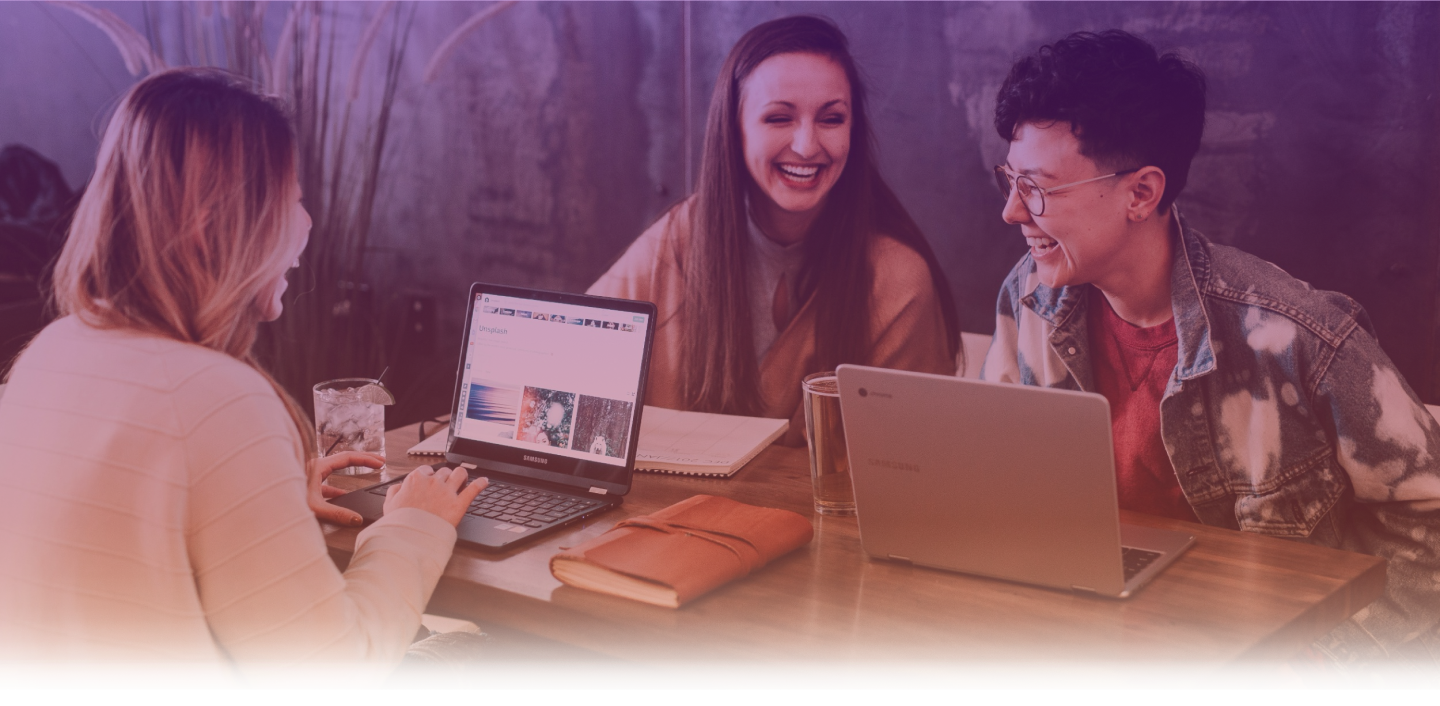
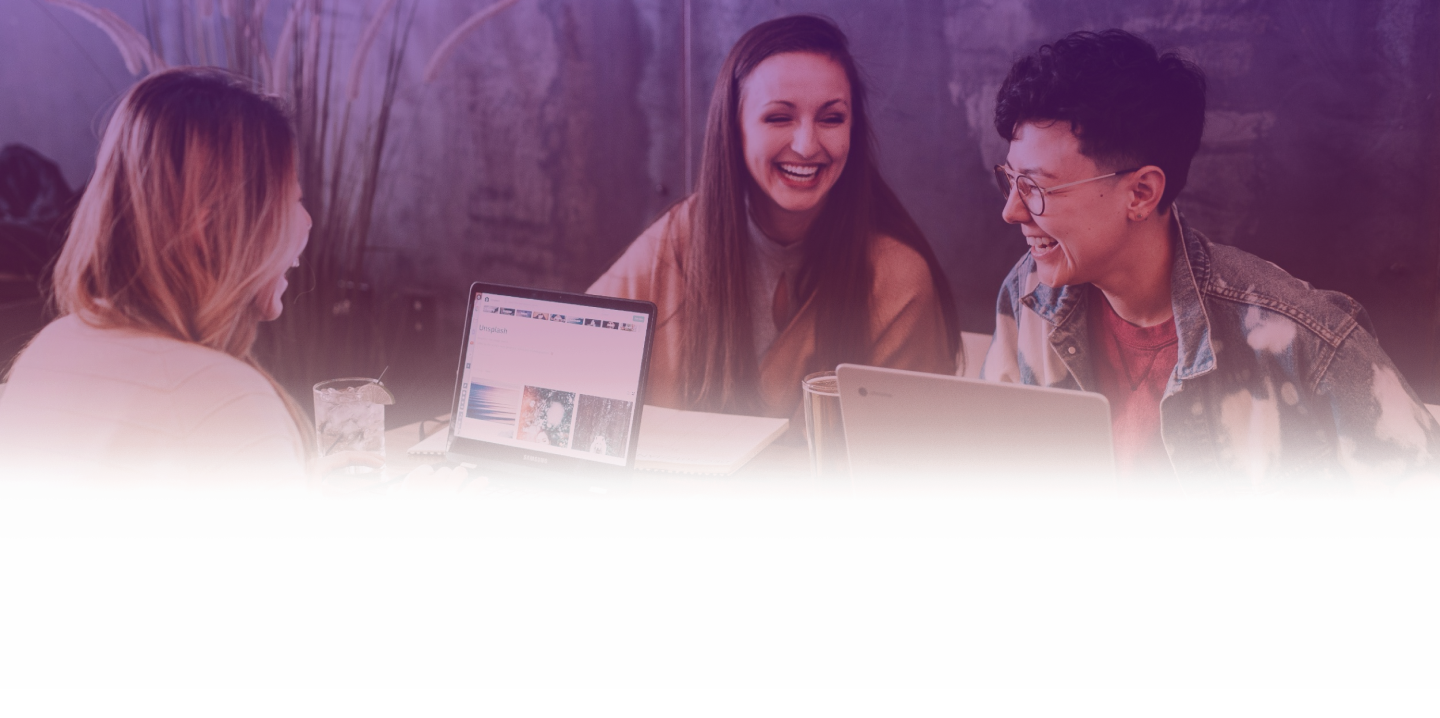
#40 responsive of team page for everery device movil and desktop

diff --git a/client/src/features/Team/page/TeamPage.tsx b/client/src/features/Team/page/TeamPage.tsx
@@ -1,24 +1,20 @@
 import { Layout } from '../../../components/Layout/Layout';
 import { styles } from '../../../style';
 import CardTeamMember from '../components/CardTeamMember';
-import bgTeam from '../../../../public/bgTeam.svg'
+import bgTeam from '../../../../public/bgTeam.png'
 
 const TeamPage = () => {
 
   return (
     <Layout>
-      <section className="flex flex-col justify-center text-center items-center bg-center" style={{ backgroundImage: `url(${bgTeam})`, backgroundSize: 'cover', backgroundRepeat: "no-repeat", height: '600px',  backgroundPosition: "center bottom" }}>
+      <section className="flex flex-col lg:pt-[100px] xl:pb-[150px] xxl:pt-[200px] xxl:pb-[260px] pt-10 pb-[100px] text-center items-center bg-center xxl:gap-12 gap-10 h-fit px-5" style={{ backgroundImage: `url(${bgTeam})`, backgroundSize: 'cover', backgroundRepeat: "no-repeat",  backgroundPosition: "center top" }}>
         <h1 className={`${styles.heading3} font-headerText`}>
           Conoce nuestro equipo
         </h1> 
-        <p className={`${styles.text} text-primary font-semibold font-headerText px-[300px] pt-6 `}>Somos una vibrante comunidad de mujeres apasionadas por la tecnología, el crecimiento personal y el empoderamiento femenino.
+        <p className="text-xl bg-gradient-to-b from-[#ffff] via-accent to-secondary xl:via-primary xl:to-primary font-semibold inline-block text-transparent bg-clip-text font-headerText max-w-[1000px]">Somos una vibrante comunidad de mujeres apasionadas por la tecnología, el crecimiento personal y el empoderamiento femenino.
           En FemCoders Club, nos dedicamos a crear un espacio seguro y enriquecedor donde mujeres tecnólogas puedan reunirse, colaborar y crecer juntas. Creemos firmemente en el poder de la diversidad y la fuerza colectiva para superar barreras y lograr un impacto significativo en la industria tecnológica.</p>
       </section>
-      <section>
-        
-       
-      </section>
-      <div className='px-[350px] py-[100px]'>
+      <div className='flex justify-center px-5 pb-24'>
       <CardTeamMember/>
       </div>
     </Layout>

diff --git a/client/src/features/Team/components/CardTeamMember.tsx b/client/src/features/Team/components/CardTeamMember.tsx
@@ -25,9 +25,9 @@ const CardTeamMember = () => {
     }
    
     return (
-        <div className="grid grid-cols-3 gap-4 justify-items-center items-start">
+        <div className="flex flex-wrap gap-10 justify-center items-start w-[1200px]">
             {data?.map((member) => (
-                <div key={member.idMember} className={`${styles.cards} relative bg-gradient-to-br from-accent/40 to-tertiary/40 text p-4 w-full h-full`}>
+                <div key={member.idMember} className={`${styles.cards} relative bg-gradient-to-br from-accent/40 to-tertiary/40 text p-4 w-80 h-72`}>
                     <div className="flex flex-col h-full">
                         <div>
                             <img src={member.memberImage} alt="member image" className="w-24 h-24 rounded-full mb-4" />
